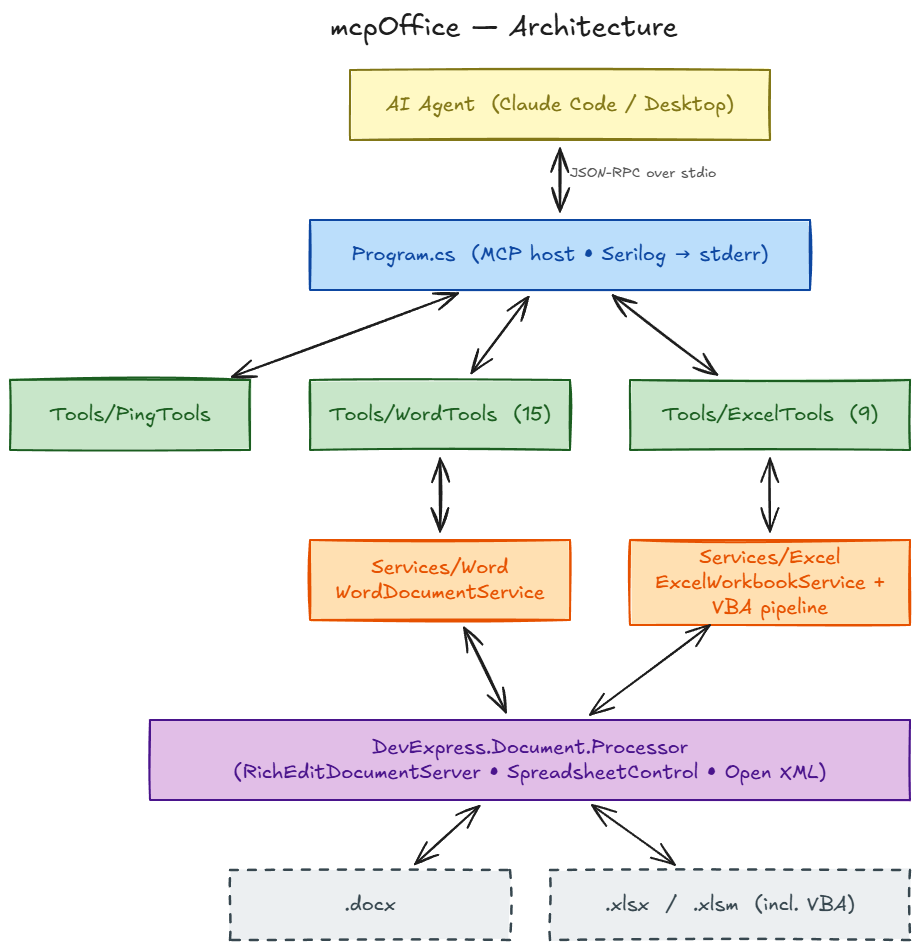
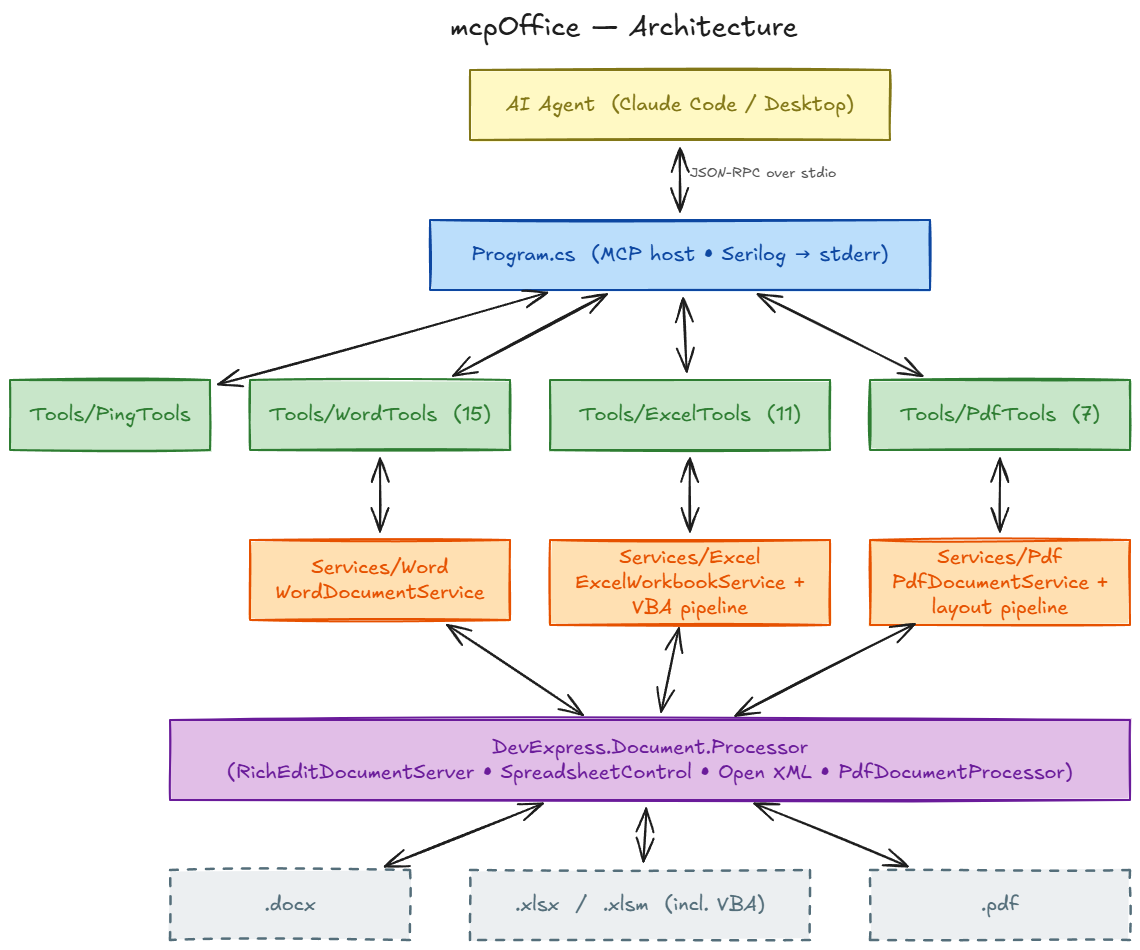
docs: add PDF domain to architecture diagram, refresh README
- architecture.excalidraw/.png/.svg: fourth column (PdfTools -> Services/Pdf -> .pdf),
  Excel tool count 9 -> 11, PdfDocumentProcessor in the DevExpress box.
- README: status line covers Word + Excel + PDF (34 tools), documents list gains the
  Markdig / VBA-analysis / CSV-export / PDF design docs, Built With cites Markdig
  instead of the removed MarkdownToDocxGenerator and DevExpress 26.1.
- ARCHITECTURE.md: NuGet feed path 25.2 -> 26.1.

diff --git a/README.md b/README.md
@@ -2,7 +2,7 @@
 
 An MCP (Model Context Protocol) server for Microsoft Office documents, written in C# (.NET 9) and backed by DevExpress Office File API packages. It lets AI agents read, write, and convert Office documents through tool calls instead of one-off scripts.
 
-**Status:** Word (.docx) and Excel (.xlsx / .xlsm) POCs are complete, including `excel_analyze_vba` v1 (procedures, event handlers, call graph, object-model references, file/DB/network/automation/shell dependencies). Next: `excel_analyze_vba` v2 — conversion hints toward Excel-to-C# migration tooling.
+**Status:** Word (.docx), Excel (.xlsx / .xlsm) and PDF are shipped — 34 tools. Excel includes `excel_analyze_vba` v3 (procedures, event handlers, call graph, object-model references, external dependencies, conversion hints). PDF covers metadata, text with layout preservation, positioned words/lines, search, page rendering, embedded images and bookmarks. Next: PowerPoint (.pptx).
 
 ## Architecture
 
@@ -12,12 +12,16 @@ Source: [`docs/img/architecture.excalidraw`](docs/img/architecture.excalidraw) (
 
 ## Documents
 
-- [Architecture](ARCHITECTURE.md) — layer map, domains, tool-adding pattern, error model, VBA pipeline diagram.
+- [Architecture](ARCHITECTURE.md) — layer map, domains, tool-adding pattern, error model, VBA pipeline and PDF text-positioning diagrams.
 - [Usage](docs/usage.md) — build, run, MCP client config, sample calls, troubleshooting.
 - [Word design](docs/plans/2026-04-30-mcpoffice-word-poc-design.md) — Word tool surface, error model.
 - [Word implementation plan](docs/plans/2026-04-30-mcpoffice-word-poc-plan.md) — task-by-task TDD plan.
+- [Markdown-to-docx design](docs/plans/2026-05-07-mcpoffice-markdown-to-docx-markdig-design.md) — Markdig-based converter behind `word_create_from_markdown` / `word_append_markdown`.
 - [Excel design](docs/plans/2026-05-01-mcpoffice-excel-poc-design.md) — Excel tool surface and rationale.
 - [VBA extraction plan](docs/plans/2026-05-01-mcpoffice-excel-vba-extraction-plan.md) — MS-OVBA decompression, OpenMcdf walking.
+- [VBA analysis design](docs/plans/2026-05-03-mcpoffice-excel-analyze-vba-design.md) and [v3 conversion hints](docs/plans/2026-05-07-mcpoffice-excel-analyze-vba-v3-design.md).
+- [CSV export design](docs/plans/2026-05-07-mcpoffice-excel-export-csv-design.md) — streaming `excel_export_csv`.
+- [PDF tools design](docs/plans/2026-08-20-pdf-tools-design.md) — `pdf_` surface, top-left coordinate convention, layout reconstruction.
 
 ## Current Tools
 
@@ -122,6 +126,6 @@ Read a column-based report out of a PDF with its layout intact:
 ## Built With
 
 - [`ModelContextProtocol`](https://github.com/modelcontextprotocol/csharp-sdk) — C# MCP SDK.
-- DevExpress RichEdit / Spreadsheet / Office File API packages — server-side document APIs.
-- [`MarkdownToDocxGenerator`](https://www.nuget.org/packages/MarkdownToDocxGenerator) — richer Markdown-to-DOCX import.
+- DevExpress `Document.Processor` 26.1 — server-side RichEdit / Spreadsheet / PDF APIs.
+- [`Markdig`](https://github.com/xoofx/markdig) — Markdown parser behind the Markdown-to-DOCX converter.
 - [`OpenMcdf`](https://www.nuget.org/packages/OpenMcdf) — OLE compound file reader for VBA project extraction.

diff --git a/ARCHITECTURE.md b/ARCHITECTURE.md
@@ -146,7 +146,7 @@ anything originally printed as monospaced text — into ambiguous runs.
 - Package: `DevExpress.Document.Processor` (server-side, no UI). `RichEditDocumentServer` for Word, `SpreadsheetControl`/Open XML walks for Excel, `PdfDocumentProcessor` for PDF.
 - `PdfDocumentProcessor` lives in `DevExpress.Docs.vXX.dll` (the Document.Processor package), **not** in `DevExpress.Pdf.Core` — that package holds the model types (`PdfDocument`, `PdfPage`, `PdfWord`, `PdfOrientedRectangle`).
 - Runtime license: `DevExpress_License.txt` at the repo root, gitignored.
-- NuGet: nuget.org + a local filesystem source at `C:\Program Files\DevExpress 25.2\...\packages` (key `DevExpressLocal` in `nuget.config`). No URL feed with a token — that prompts for credentials in VS.
+- NuGet: nuget.org + a local filesystem source at `C:\Program Files\DevExpress 26.1\...\packages` (key `DevExpressLocal` in `nuget.config`). No URL feed with a token — that prompts for credentials in VS.
 
 ## What this architecture deliberately does not do
 
